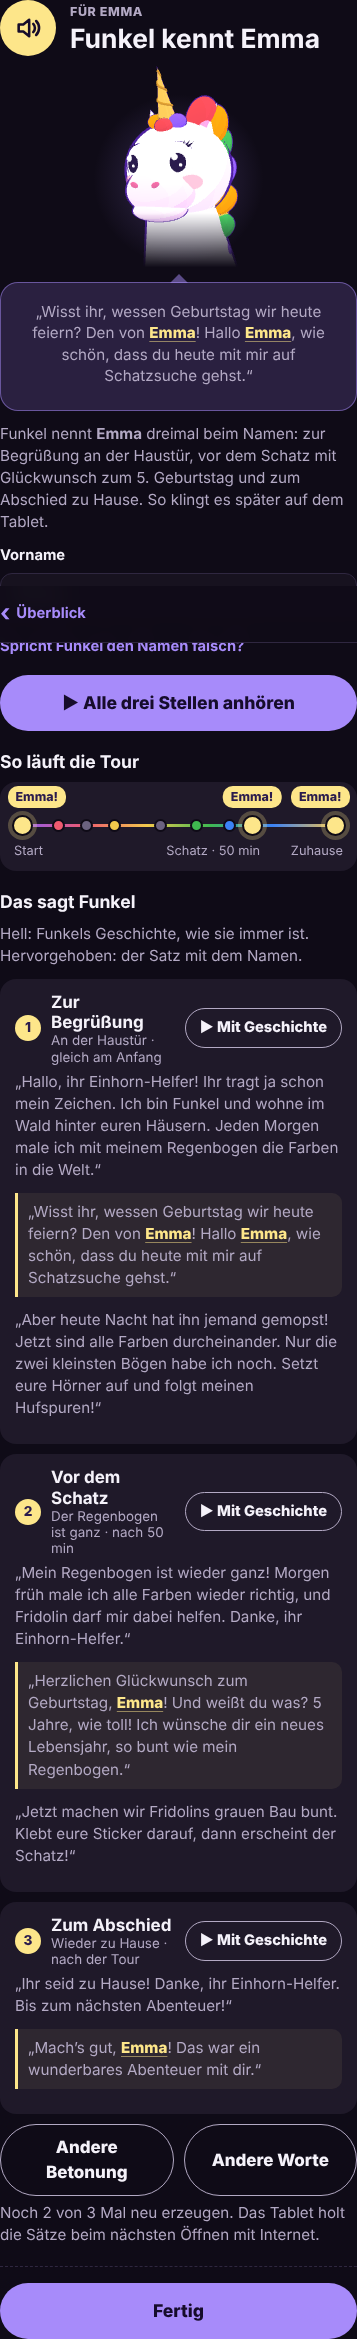
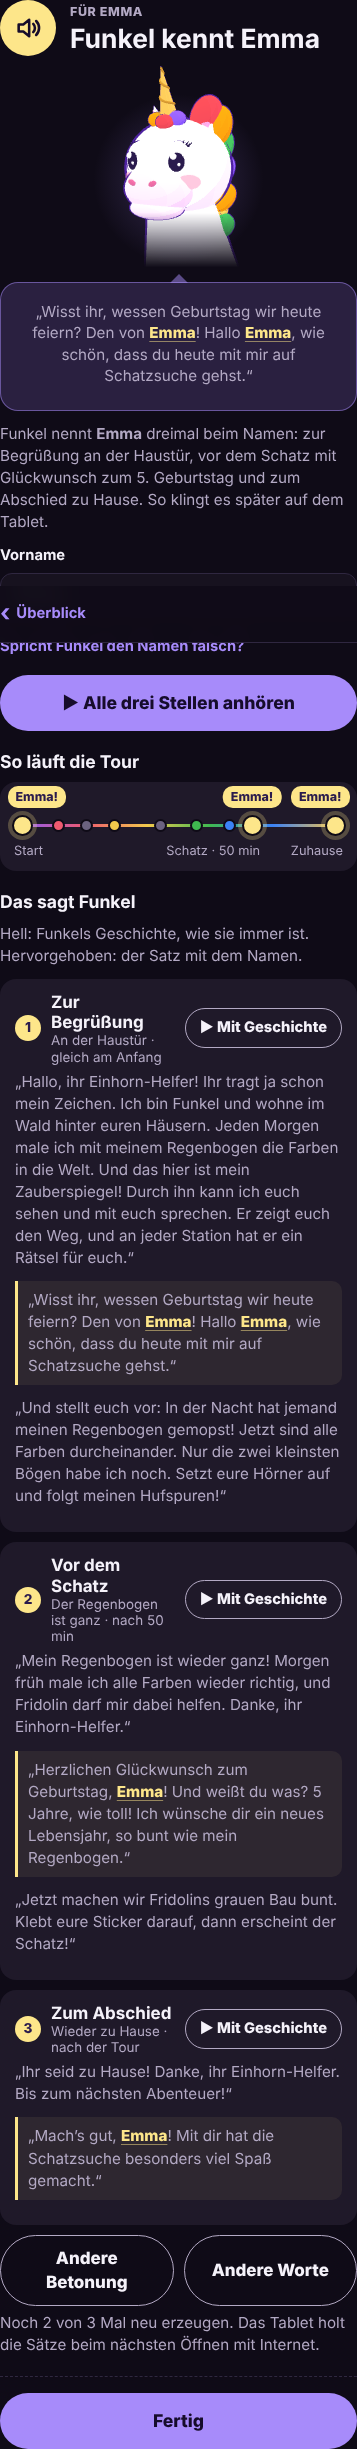
UNICORN-77, UNICORN-78, UNICORN-74: Hinweise für Erwachsene – Station 5, Ortsreste, Schatzkiste (#186)
* UNICORN-77: Station 5 – Stichpunkte für Erwachsene auf Merken, Malen, Vergleichen

Claude-Session: https://claude.ai/code/session_013npLMcpQx7Gsw7mGTvqP11

* UNICORN-78: Ortsreste vom Original-Geburtstag aus geschriebenen Hinweisen entfernen

Claude-Session: https://claude.ai/code/session_013npLMcpQx7Gsw7mGTvqP11

* UNICORN-74: Schatzkiste – eine Regel an allen Stellen

Claude-Session: https://claude.ai/code/session_013npLMcpQx7Gsw7mGTvqP11

---------

diff --git a/app/vorausgeher.html b/app/vorausgeher.html
@@ -88,13 +88,15 @@ details.alle[open] summary svg{transform:rotate(180deg)}
   try{ gelegt=JSON.parse(localStorage.getItem(GELEGT)||'{}')||{}; }catch(e){}
 
   // Was wohin: Packliste der Vorausgeher-Tasche den Stationen zuordnen
+  var behalten={};
   function wasWohin(){
-    var gr=(tour.vorbereitung.variante[v]||[]).filter(function(g){ return /Vorausgeher/.test(g.t); })[0], je={};
+    var gr=(tour.vorbereitung.variante[v]||[]).filter(function(g){ return /Vorausgeher/.test(g.t); })[0], je={}; behalten={};
     (gr?gr.items:[]).forEach(function(it){
       var t=it.replace(/\{kinder\}/g, party.kinder), m=t.match(/\(Station (\d)\)\s*$/), i=null;
       if(m){ i=+m[1]-1; t=t.replace(m[0],'').trim(); }
       else { var r=t.match(/\(([^)]+)\)\s*$/); if(r && RAUM[r[1]]!=null){ i=RAUM[r[1]]; t=t.replace(r[0],'').trim(); } }
       if(i==null) i=tour.stationen.length-1;
+      if(/nicht hinlegen/.test(t)){ (behalten[i]=behalten[i]||[]).push(t.replace(/:.*$/,'')); return; }   // Schatzkiste bleibt in der Tasche (UNICORN-74)
       (je[i]=je[i]||[]).push(t);
     });
     return je;
@@ -105,7 +107,8 @@ details.alle[open] summary svg{transform:rotate(180deg)}
       if(i===0) return null;
       var o=tour.varianten[v] && tour.varianten[v].st && tour.varianten[v].st[i] || {};
       var p=st[i]||{};
-      return {i:i, titel:s.title||(s.steps&&s.steps[0].title)||'', name:drinnen?(o.wo||s.wo):(p.name||s.name), wo:o.wo||s.wo, lat:p.lat, lng:p.lng, sachen:je[i]||[], vorOrt:o.vorOrt||s.vorOrt};
+      return {i:i, titel:s.title||(s.steps&&s.steps[0].title)||'', name:drinnen?(o.wo||s.wo):(p.name||s.name), wo:(!drinnen && p.name && !o.wo) ? '' : (o.wo||s.wo),   // geplanter Ort hat Vorrang (UNICORN-78)
+                lat:p.lat, lng:p.lng, sachen:je[i]||[], behalten:behalten[i]||[], vorOrt:o.vorOrt||s.vorOrt};
     }).filter(Boolean);
   }
   function hinlaufLink(s){ return 'https://www.google.com/maps/dir/?api=1&travelmode=walking&destination='+s.lat+','+s.lng; }
@@ -150,6 +153,7 @@ details.alle[open] summary svg{transform:rotate(180deg)}
         (n.lat!=null && !drinnen ? '<a class="knopf leer" target="_blank" rel="noopener" href="'+hinlaufLink(n)+'">'+PIN+'Hinlaufen mit Karte</a>' : '')+'</section>';
       h+='<div class="hinlegen"><b>Hier hinlegen</b>'+
         (n.sachen.length ? n.sachen.map(function(x,k){ var id=n.i+':'+k; return '<label><input type="checkbox" data-gelegt="'+id+'"'+(gelegt[id]?' checked':'')+'><span>'+esc(x)+'</span></label>'; }).join('') : '<p class="leise" style="margin:6px 0 0">Nichts aufbauen, nur vorbeigehen.</p>')+
+        (n.behalten.length ? '<p class="gruppe"><b>Nicht hinlegen:</b> '+esc(n.behalten.join(', '))+'. Bleibt in der Tasche, bis die Kinder kleben.</p>' : '')+
         (n.vorOrt ? '<p class="gruppe">Für die Gruppe: '+esc(n.vorOrt)+'</p>' : '')+'</div>';
       h+='<button type="button" class="weiter" data-weiter="'+n.i+'">Station steht, weiter</button>';
     } else {
@@ -159,7 +163,7 @@ details.alle[open] summary svg{transform:rotate(180deg)}
       h+='<div class="hinlegen danach"><b>So geht es weiter</b><ol>'+
         '<li><b>'+(drinnen?'Geh zur Gruppe.':'Geh der Gruppe entgegen.')+'</b> '+(drinnen?'Lass die Türen hinter dir zu.':'Lauf den Weg zurück, sie kommt dir entgegen.')+' <span class="leise">'+(unterwegs?'Die Gruppe ist schon unterwegs.':'Die Gruppe startet um '+esc(party.start||'')+' Uhr.')+'</span></li>'+
         '<li><b>Lauf hinten mit.</b> Finden die Kinder etwas nicht, zeig unauffällig in die Richtung. Verraten nur im Notfall.</li>'+
-        '<li><b>Beim Schatz:</b> Fridolin und die Schatzkiste liegen bereit. Lass die Kinder selbst suchen.</li></ol>'+
+        '<li><b>Beim Schatz:</b> Fridolin liegt bereit. Lass die Kinder selbst suchen. Die Schatzkiste stellst du hin, während die Kinder kleben.</li></ol>'+
         '<p class="such-titel">Das suchen die Kinder</p><ul class="such">'+Party.vorbereitungsListe(tour, v, party.kinder).gruppen.filter(function(g){ return g.art==='station' && g.wer==='Vorausgeher'; }).map(function(g){ var d=g.items.filter(function(i){ return !i.extra; }).map(function(i){ return i.x; }); return d.length ? '<li><span class="nr-klein">'+g.s+'</span>'+esc(d.join(', '))+'</li>' : ''; }).join('')+'</ul>'+
         (start && start.lat!=null && !drinnen ? '<a class="knopf leer" target="_blank" rel="noopener" href="'+hinlaufLink(start)+'">'+PIN+'Zurück zum Start mit Karte</a>' : '')+'</div>';
     }

diff --git a/app/spiel.html b/app/spiel.html
@@ -1050,8 +1050,8 @@ function renderGaben(){
   GABEN.forEach(function(g){
     var nr, ort;
     if(g.i==='start'){ nr='–'; ort='Ankommen an der Haustür'; }
-    else if(g.i==='ende'){ nr='★'; ort='Am Ende: '+stv(N-1).wo; }
-    else { nr=String(g.i+1); ort='Station '+(g.i+1)+' · '+(g.i===0?STATIONS[0].name:indoor()?stv(g.i).wo:STATIONS[g.i].name+', '+stv(g.i).wo); }
+    else if(g.i==='ende'){ nr='★'; ort='Am Ende: '+(stv(N-1).wo||STATIONS[N-1].name); }
+    else { nr=String(g.i+1); ort='Station '+(g.i+1)+' · '+(g.i===0?STATIONS[0].name:indoor()?stv(g.i).wo:STATIONS[g.i].name+(stv(g.i).wo?', '+stv(g.i).wo:'')); }
     h+='<li><span class="nr">'+nr+'</span><div class="txt"><div class="nm">'+esc(g.was)+' <span class="art'+(g.art==='Schatz'?' schatz':'')+'">'+esc(g.art)+'</span></div><div class="wo">'+esc(ort)+'</div><div class="st">'+esc(g.wie)+'</div></div></li>';
   });
   $('gaben').innerHTML=h;
@@ -2328,7 +2328,7 @@ function hauptText(){                   // Beschriftung des einen Hauptknopfs, l
 function jetzt(){                       // was der Erzähler in diesem Moment tun soll
   var ph=state.phase, st=stv(state.idx);
   if(ph==='start') return indoor() ? 'Drinnen: Stationen öffnest du von Hand. Wenn alle Kinder da sind, „Spiegel aufwecken“ tippen.' : gesetzt() ? 'Wenn alle Kinder da sind, „Spiegel aufwecken“ tippen.' : 'Zum Ausprobieren „Spiegel aufwecken“ tippen. Für die echte Tour vorher unter „Einrichten“ die Punkte setzen.';
-  if(ph==='end') return 'Alle bekleben Fridolins grauen Bau mit Stickern. Währenddessen kommt die Schatzkiste zur Parkbank. Darin liegen Kratzbilder, Zaubertafeln und Zeichenschablonen. Nach Schatz und Snack „Heimweg starten“.';
+  if(ph==='end') return 'Alle bekleben Fridolins grauen Bau mit Stickern. Jetzt die Schatzkiste hinstellen. Kiste zusammen öffnen und staunen, verteilt wird zu Hause. Nach Schatz und Snack „Heimweg starten“.';   // eine Regel für die Schatzkiste (UNICORN-74)
   if(ph==='heim') return state.step>=1 ? 'Geschafft! Tattoos abwischen, den Schatz gibt es nach dem Essen.' : (state.heim ? 'Alle hüpfen nach Hause, der Spiegel zählt die Sprünge bis zur Haustür. Dort öffnet er sich von selbst.' : 'Alle hüpfen nach Hause. Der Spiegel kennt die Haustür nicht (kein GPS beim Start), darum an der Tür „Zu Hause angekommen“ tippen.');
   if(ph==='seek'){
     if(ankunft) return 'Angekommen!';
@@ -2346,7 +2346,7 @@ function jetzt(){                       // was der Erzähler in diesem Moment tu
   if(st.kind==='recolor') return state.step===0 ? 'Die Kinder rufen, was nicht stimmt. Dann aufs Bild oder auf „Bild verzaubern“ tippen.' : lin+st.dann;
   if(st.kind==='wahl'){
     if(galerieAktiv()){ var go=st.optionen[galN], m=st.optionen.length;
-      return 'Bild '+(galN+1)+' von '+m+': '+go.name+'. Die Kinder rufen, was falsch ist und welche Farbe es in echt hat. '+(galN<m-1 ? 'Dann ein paar Schritte am Zaun weiter und „Nächstes Bild“ tippen.' : 'Dann „Alle vier gesehen“ tippen.'); }
+      return 'Bild '+(galN+1)+' von '+m+': '+go.name+'. Die Kinder rufen, was falsch ist und welche Farbe es in echt hat. '+(galN<m-1 ? 'Dann ein paar Schritte weitergehen und „Nächstes Bild“ tippen.' : 'Dann „Alle vier gesehen“ tippen.'); }
     if(spurMerken()) return !state.spur ? st.frage : state.spur==='zeigen' ? 'Alle schauen genau hin. Gleich kommt der Nebel.' : state.spur==='nebel' ? st.frageNebel : st.frageWahl;
     return state.step===0 ? st.frage : lin+st.dann;
   }

diff --git a/app/planer-kern.js b/app/planer-kern.js
@@ -220,7 +220,7 @@
     if(s.ziel){
       var fl=ziel.flaeche;
       var ort=(fl && fl.name) || wegName(netz,id);
-      return {name:(ziel.art==='Wegpunkt'?st.name:ziel.art)+(ort?' '+(praeposition(ort)||{an:'bei '+ort}).an:''), strasse:ort};
+      return {name:(ziel.art==='Wegpunkt'?'Letzte Station':ziel.art)+(ort?' '+(praeposition(ort)||{an:'bei '+ort}).an:''), strasse:ort};
     }
     var strasse=typ==='strassenquerung' ? wegName(netz,id,true) : wegName(netz,id);
     var basis=s.gefunden ? ({strassenquerung:'Übergang', zaun:'Zaun', kreuzung:'Kreuzung', huegel_unten:'Hügel', weg:'Ecke', spielplatz:'Spielplatz'}[typ]||st.name) : 'Wegpunkt';

diff --git a/app/tour-laden.js b/app/tour-laden.js
@@ -46,8 +46,8 @@
         var p=st[i]; if(i===0) return;
         code.push(p && typeof p.lat==='number' ? [p.lat,p.lng] : null);
         if(!p) return;
-        if(p.name) s.name=p.name;
-        if(p.wo) s.wo=p.wo;
+        if(p.name){ s.name=p.name; s.wo=p.wo||''; }   // geplanter Ort hat Vorrang, die feste Ortszeile stammt vom Original (UNICORN-78)
+        else if(p.wo) s.wo=p.wo;
         if(s.ansage && (p.an || p.zu)) s.ansageText=fuellen(s.ansage,{an:p.an||p.zu, zu:p.zu||p.an});
       });
       if(code.some(Boolean)) tp.punkteCode=JSON.stringify(code);
